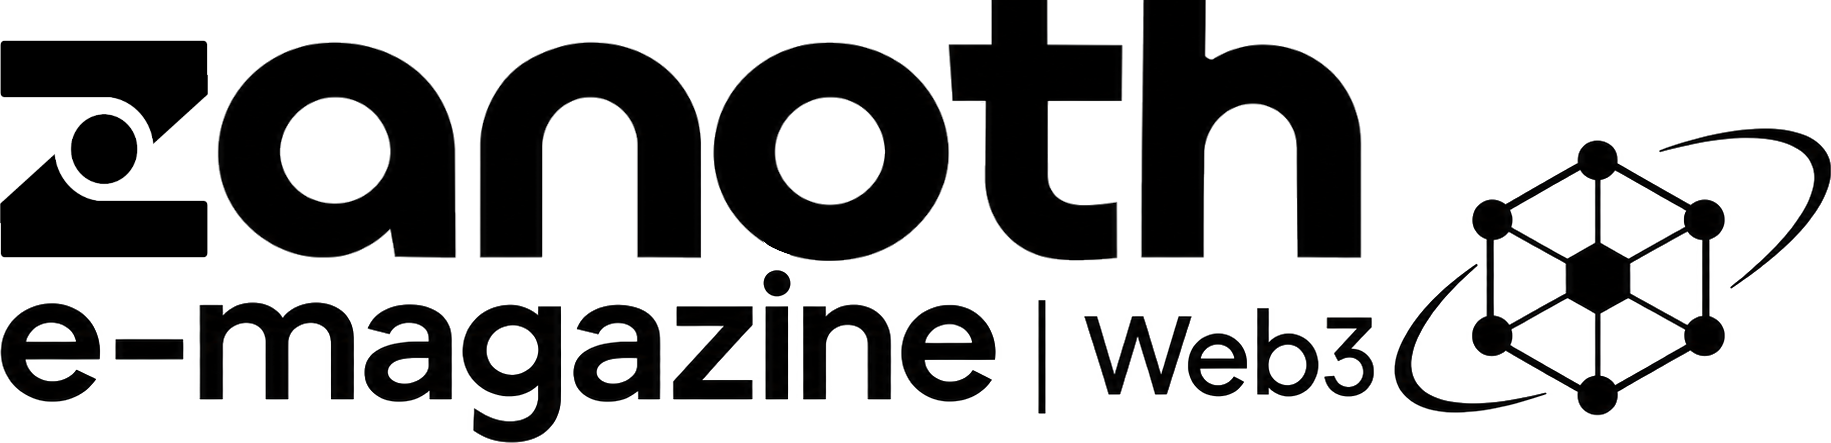
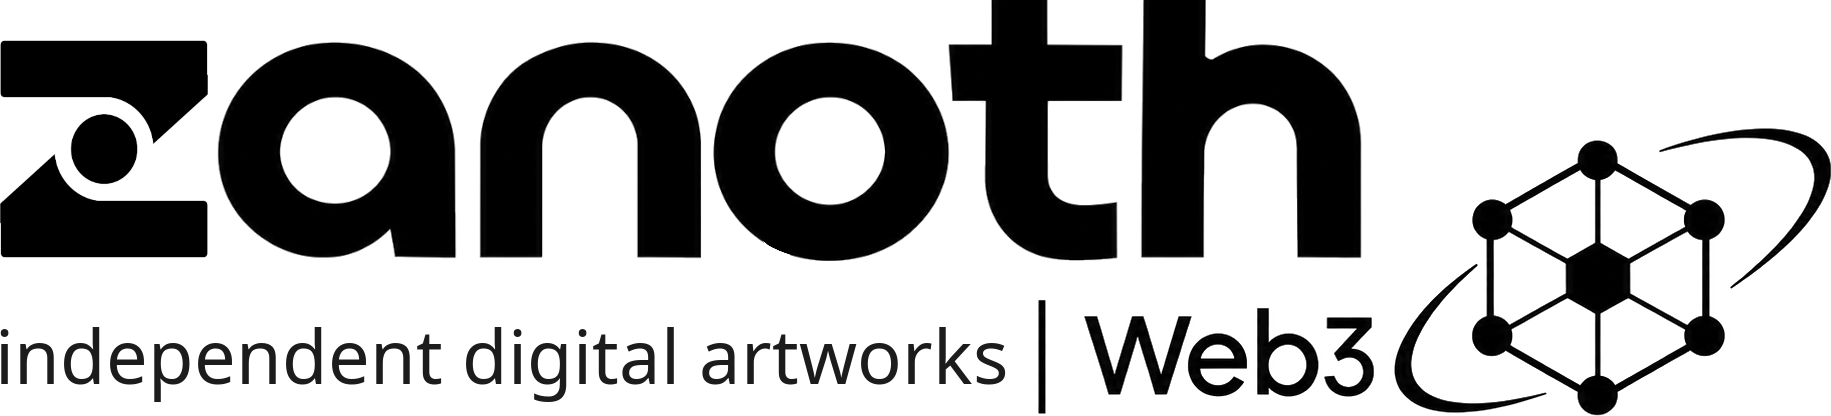
style(metadata): atualizacao

diff --git a/src/app/(main)/layout.tsx b/src/app/(main)/layout.tsx
@@ -12,15 +12,15 @@ export const metadata: Metadata = {
     url: "https://zanoth.vercel.app/",
     title: "Zanoth © Independent Digital Artworks",
     description:
-      "Fingerprints Album: New Release available now! Portfólio digital de Zanoth — música autoral, arte experimental e cultura independente.",
-    siteName: "Zanoth Independent Digital Artworks",
+      "Música autoral, arte experimental e cultura independente.",
+    siteName: "Zanoth - Independent Digital Artworks",
     locale: "pt_BR",
     images: [
       {
-        url: "https://zanoth.vercel.app/images/fingerprints.png",
+        url: "https://zanoth.vercel.app/images/zweb3.png",
         width: 1024,
         height: 1024,
-        alt: "Zanoth © Fingerprints Album New Release",
+        alt: "Zanoth © Independent Digital Artworks",
       },
     ],
   },

diff --git a/src/app/_components/Header.tsx b/src/app/_components/Header.tsx
@@ -70,7 +70,7 @@ export default function Header({ selected, setSelected, onOpenPopup, pages = [] 
         {/* Logo */}
         <div className="flex flex-col items-center sm:items-start">
           <img
-            src="/images/zweb3v5.png"
+            src="/images/zweb3.png"
             className="h-[70px] w-auto"
             alt="Zanoth logo"
           />
